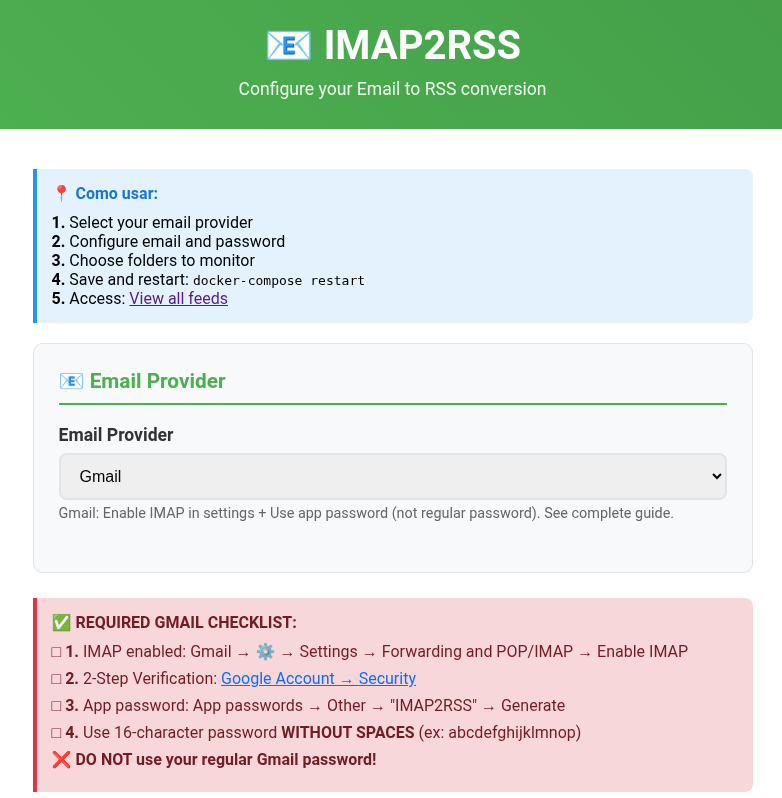
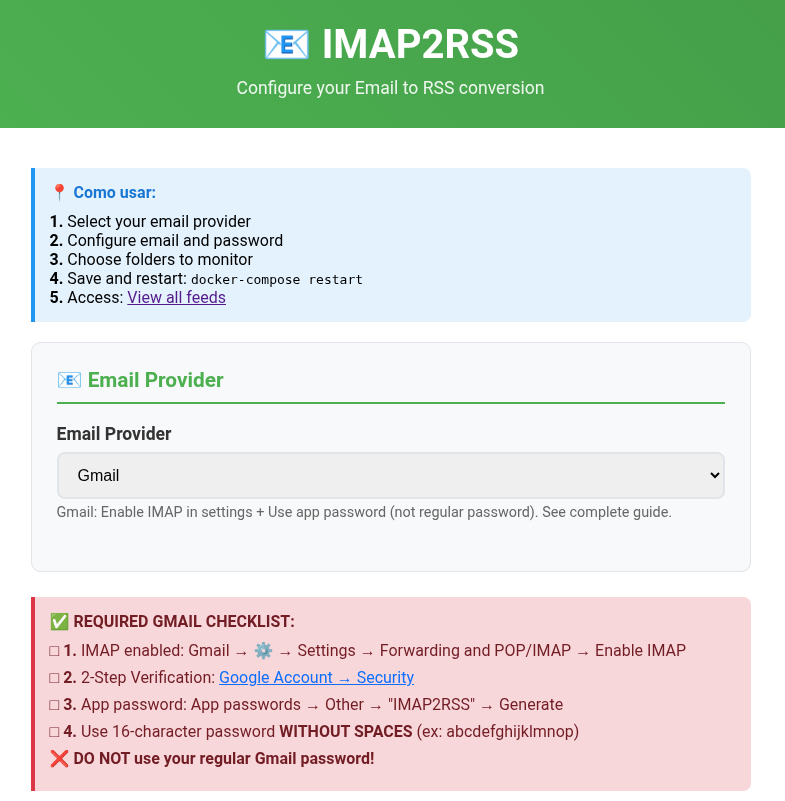
chore: translate all UI text to English and update screenshots in README

diff --git a/config_gui.py b/config_gui.py
@@ -260,7 +260,7 @@ class ConfigHandler(BaseHTTPRequestHandler):
         
         <div class="content">
             <div class="status-info">
-                <h4>📍 Como usar:</h4>
+                <h4>📍 How to use:</h4>
                 <p><strong>1.</strong> Select your email provider</p>
                 <p><strong>2.</strong> Configure email and password</p>
                 <p><strong>3.</strong> Choose folders to monitor</p>
@@ -296,7 +296,7 @@ class ConfigHandler(BaseHTTPRequestHandler):
                     <div class="form-group">
                         <label for="email_user">Email <span class="required">*</span></label>
                         <input type="email" id="email_user" name="email_user" value="{email_user}" required>
-                        <small>Seu email completo (ex: usuario@gmail.com)</small>
+                        <small>Your complete email (ex: user@gmail.com)</small>
                     </div>
                     
                     <div class="form-group">
@@ -307,7 +307,7 @@ class ConfigHandler(BaseHTTPRequestHandler):
                 </div>
                 
                 <div class="section">
-                    <h3>⚙ Configurações IMAP (Automático)</h3>
+                    <h3>⚙ IMAP Settings (Automatic)</h3>
                     
                     <div class="grid">
                         <div class="form-group">
@@ -346,7 +346,7 @@ class ConfigHandler(BaseHTTPRequestHandler):
                 </div>
                 
                 <div class="section">
-                    <h3>📰 Configurações do Feed RSS</h3>
+                    <h3>📰 RSS Feed Settings</h3>
                     
                     <div class="form-group">
                         <label for="feed_title">Feed Title</label>
@@ -368,7 +368,7 @@ class ConfigHandler(BaseHTTPRequestHandler):
                         <div class="form-group">
                             <label for="check_interval">Check Interval (minutes)</label>
                             <input type="number" id="check_interval" name="check_interval" value="{check_interval}" min="1" max="1440">
-                            <small>Frequência para buscar novos emails</small>
+                            <small>Frequency to check for new emails</small>
                         </div>
                     </div>
                 </div>
@@ -376,7 +376,7 @@ class ConfigHandler(BaseHTTPRequestHandler):
                 <div class="button-group">
                     <button type="submit" class="btn">💾 Save Configuration</button>
                     <button type="button" class="btn btn-secondary" onclick="detectMailboxes()">🔍 Detect Folders</button>
-                    <a href="/status" class="btn btn-secondary">📊 Ver Status</a>
+                    <a href="/status" class="btn btn-secondary">📊 View Status</a>
                     <a href="https://myaccount.google.com/security" target="_blank" class="btn btn-secondary" style="background: linear-gradient(45deg, #db4437, #c23321);">🔐 Config Gmail</a>
                 </div>
             </form>
@@ -409,7 +409,7 @@ class ConfigHandler(BaseHTTPRequestHandler):
                     }} else if (provider === 'zoho') {{
                         document.getElementById('password_help').textContent = 'WARNING: Free Zoho does not support IMAP!';
                     }} else {{
-                        document.getElementById('password_help').textContent = 'Configure as credenciais do seu provedor';
+                        document.getElementById('password_help').textContent = 'Configure your provider credentials';
                     }}
                 }}
                 
@@ -465,7 +465,7 @@ class ConfigHandler(BaseHTTPRequestHandler):
             .catch(error => {{
                 button.textContent = originalText;
                 button.disabled = false;
-                alert('❌ Erro: ' + error);
+                alert('❌ Error: ' + error);
             }});
         }}
         
@@ -490,7 +490,7 @@ class ConfigHandler(BaseHTTPRequestHandler):
                 }}
             }})
             .catch(error => {{
-                alert('❌ Erro: ' + error);
+                alert('❌ Error: ' + error);
             }});
         }});
     </script>
@@ -509,7 +509,7 @@ class ConfigHandler(BaseHTTPRequestHandler):
             mailboxes=config.get('MAILBOXES', 'INBOX'),
             combined_selected='selected' if config.get('FEED_MODE', 'combined') == 'combined' else '',
             separate_selected='selected' if config.get('FEED_MODE') == 'separate' else '',
-            feed_title=config.get('FEED_TITLE', 'Meus Emails RSS'),
+            feed_title=config.get('FEED_TITLE', 'My RSS Emails'),
             feed_description=config.get('FEED_DESCRIPTION', 'Feed RSS gerado dos meus emails'),
             max_emails=config.get('MAX_EMAILS', '50'),
             check_interval=str(int(config.get('CHECK_INTERVAL', '300')) // 60)
@@ -642,7 +642,7 @@ class ConfigHandler(BaseHTTPRequestHandler):
             env_content.append(f"IMAP_PORT={form_data.get('imap_port', ['993'])[0]}")
             env_content.append(f"MAILBOXES={form_data.get('mailboxes', ['INBOX'])[0]}")
             env_content.append(f"FEED_MODE={form_data.get('feed_mode', ['combined'])[0]}")
-            env_content.append(f"FEED_TITLE={form_data.get('feed_title', ['Meus Emails RSS'])[0]}")
+            env_content.append(f"FEED_TITLE={form_data.get('feed_title', ['My RSS Emails'])[0]}")
             env_content.append(f"FEED_DESCRIPTION={form_data.get('feed_description', ['Feed RSS gerado dos meus emails'])[0]}")
             env_content.append(f"MAX_EMAILS={form_data.get('max_emails', ['50'])[0]}")
             
@@ -691,18 +691,18 @@ class ConfigHandler(BaseHTTPRequestHandler):
 </head>
 <body>
     <div class="container">
-        <h1>📊 Status do IMAP2RSS</h1>
-        <p><strong>Provedor:</strong> {config.get('EMAIL_PROVIDER', 'gmail').title()}</p>
-        <p><strong>Email:</strong> {config.get('EMAIL_USER', 'Não configurado')}</p>
+        <h1>📊 IMAP2RSS Status</h1>
+        <p><strong>Provider:</strong> {config.get('EMAIL_PROVIDER', 'gmail').title()}</p>
+        <p><strong>Email:</strong> {config.get('EMAIL_USER', 'Not configured')}</p>
         <p><strong>Server:</strong> {config.get('IMAP_SERVER', 'imap.gmail.com')}</p>
         <p><strong>Folders:</strong> {config.get('MAILBOXES', 'INBOX')}</p>
         
-        <h2>Links RSS:</h2>
-        <p><a href="http://localhost:8888/feed.xml" target="_blank">Feed Principal</a></p>
-        <p><a href="http://localhost:8888/" target="_blank">Todos os Feeds</a></p>
+        <h2>RSS Links:</h2>
+        <p><a href="http://localhost:8888/feed.xml" target="_blank">Main Feed</a></p>
+        <p><a href="http://localhost:8888/" target="_blank">All Feeds</a></p>
         
-        <a href="/" class="btn">⚙ Configurar</a>
-        <a href="http://localhost:8888/" class="btn" target="_blank">📰 Ver Feeds</a>
+        <a href="/" class="btn">⚙ Settings</a>
+        <a href="http://localhost:8888/" class="btn" target="_blank">📰 View Feeds</a>
     </div>
 </body>
 </html>"""

diff --git a/server.py b/server.py
@@ -100,7 +100,7 @@ class RSSHandler(SimpleHTTPRequestHandler):
             html = f"""<!DOCTYPE html>
 <html>
 <head>
-    <title>IMAP2RSS - Feeds Disponíveis</title>
+    <title>IMAP2RSS - Available Feeds</title>
     <style>
         body {{ font-family: Arial, sans-serif; margin: 40px; background: #f5f5f5; }}
         .container {{ max-width: 800px; margin: 0 auto; background: white; padding: 30px; border-radius: 10px; }}
@@ -114,15 +114,15 @@ class RSSHandler(SimpleHTTPRequestHandler):
 </head>
 <body>
     <div class="container">
-        <h1>📰 Feeds RSS Disponíveis</h1>
+        <h1>📰 Available RSS Feeds</h1>
         
         <div class="info">
-            <strong>Modo:</strong> {feeds_data.get('feed_mode', 'combined')}<br>
+            <strong>Mode:</strong> {feeds_data.get('feed_mode', 'combined')}<br>
             <strong>Monitored folders:</strong> {', '.join([decode_imap_utf7(mb) for mb in feeds_data.get('mailboxes', ['INBOX'])])}<br>
-            <strong>Última atualização:</strong> {feeds_data.get('generated_at', 'Desconhecido')}
+            <strong>Last update:</strong> {feeds_data.get('generated_at', 'Unknown')}
         </div>
         
-        <h2>Feeds RSS:</h2>
+        <h2>RSS Feeds:</h2>
         <ul class="feed-list">"""
             
             for feed in feeds_data.get('feeds', []):
@@ -136,7 +136,7 @@ class RSSHandler(SimpleHTTPRequestHandler):
             <li class="feed-item">
                 <a href="/{feed}.xml">{feed}.xml</a>
                 <small>{description}</small>
-                <small><strong>URL para FreshRSS:</strong> <code>{feed_url}</code></small>
+                <small><strong>FreshRSS URL:</strong> <code>{feed_url}</code></small>
             </li>"""
             
             html += """
@@ -146,11 +146,11 @@ class RSSHandler(SimpleHTTPRequestHandler):
         <ul class="feed-list">
             <li class="feed-item">
                 <a href="/feeds.json">feeds.json</a>
-                <small>Lista de feeds em formato JSON</small>
+                <small>List of feeds in JSON format</small>
             </li>
             <li class="feed-item">
                 <a href="/health">health</a>
-                <small>Status de saúde do serviço</small>
+                <small>Service health status</small>
             </li>
         </ul>
     </div>
